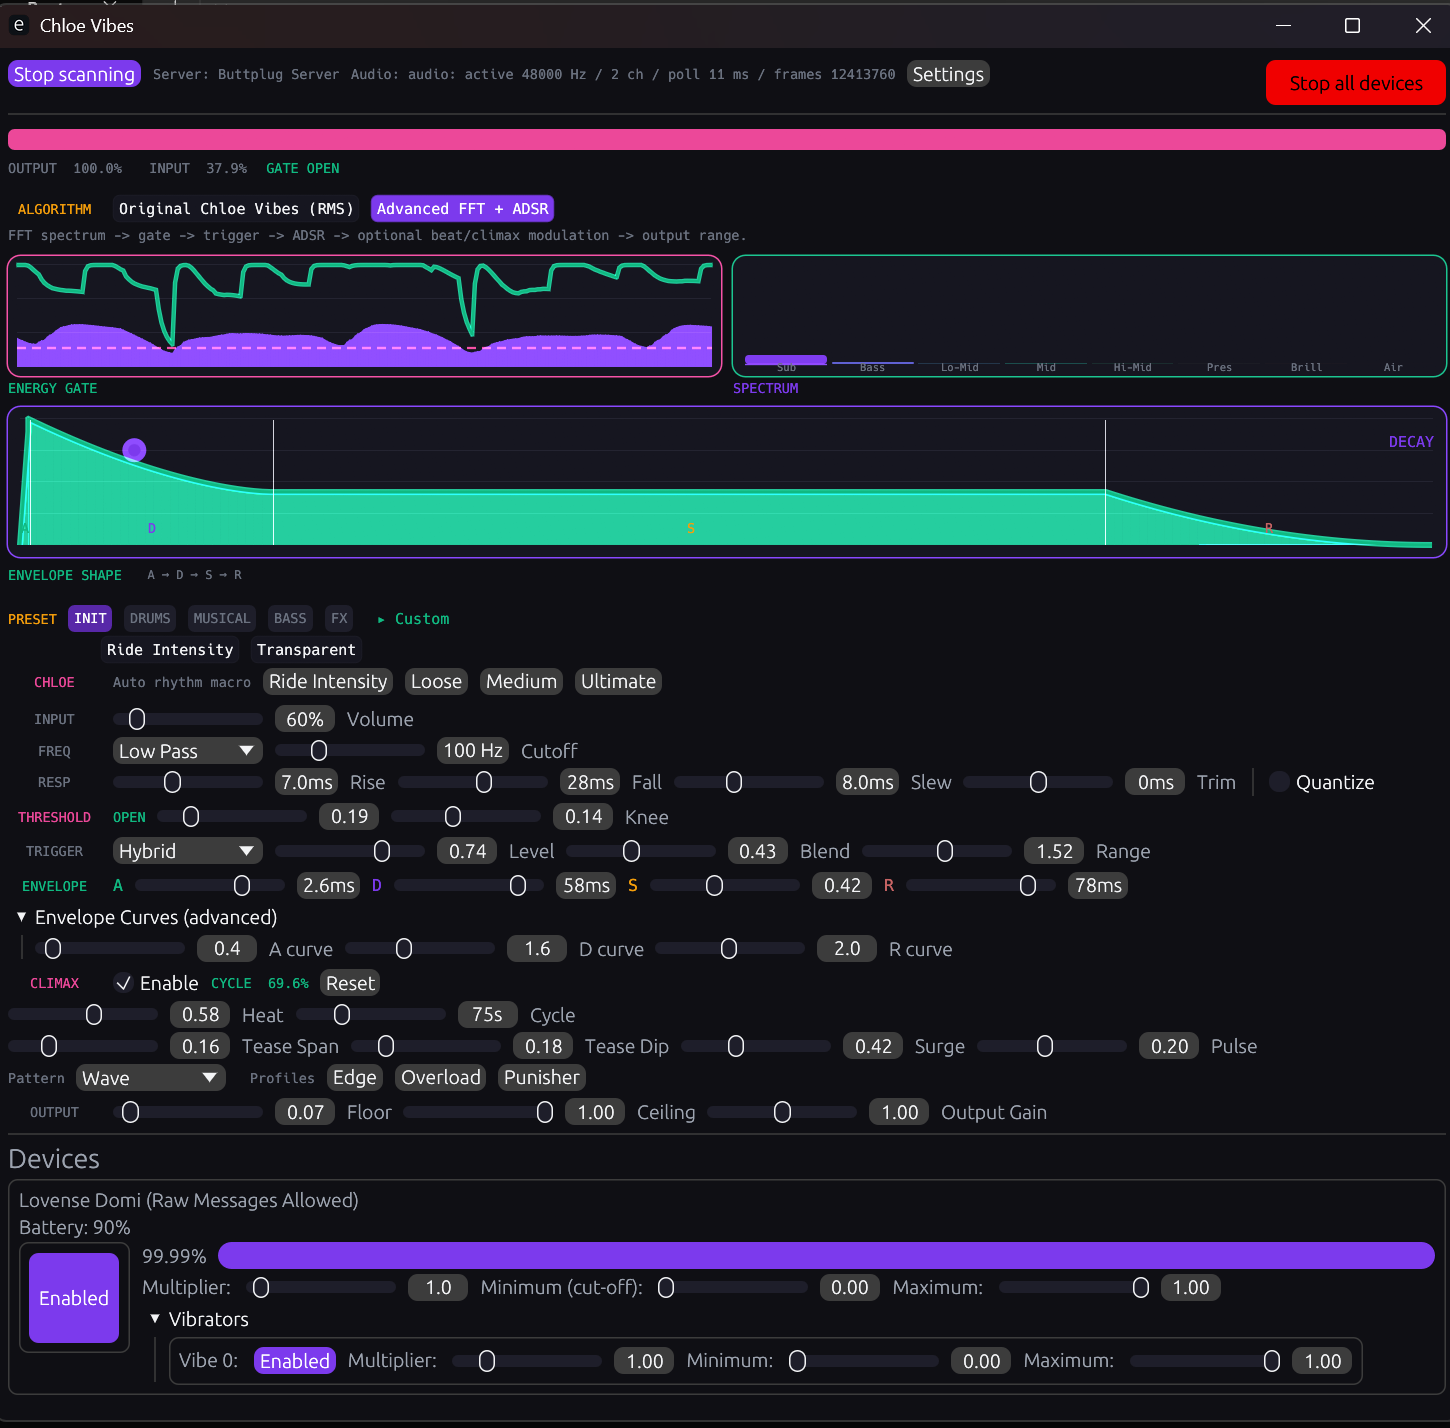
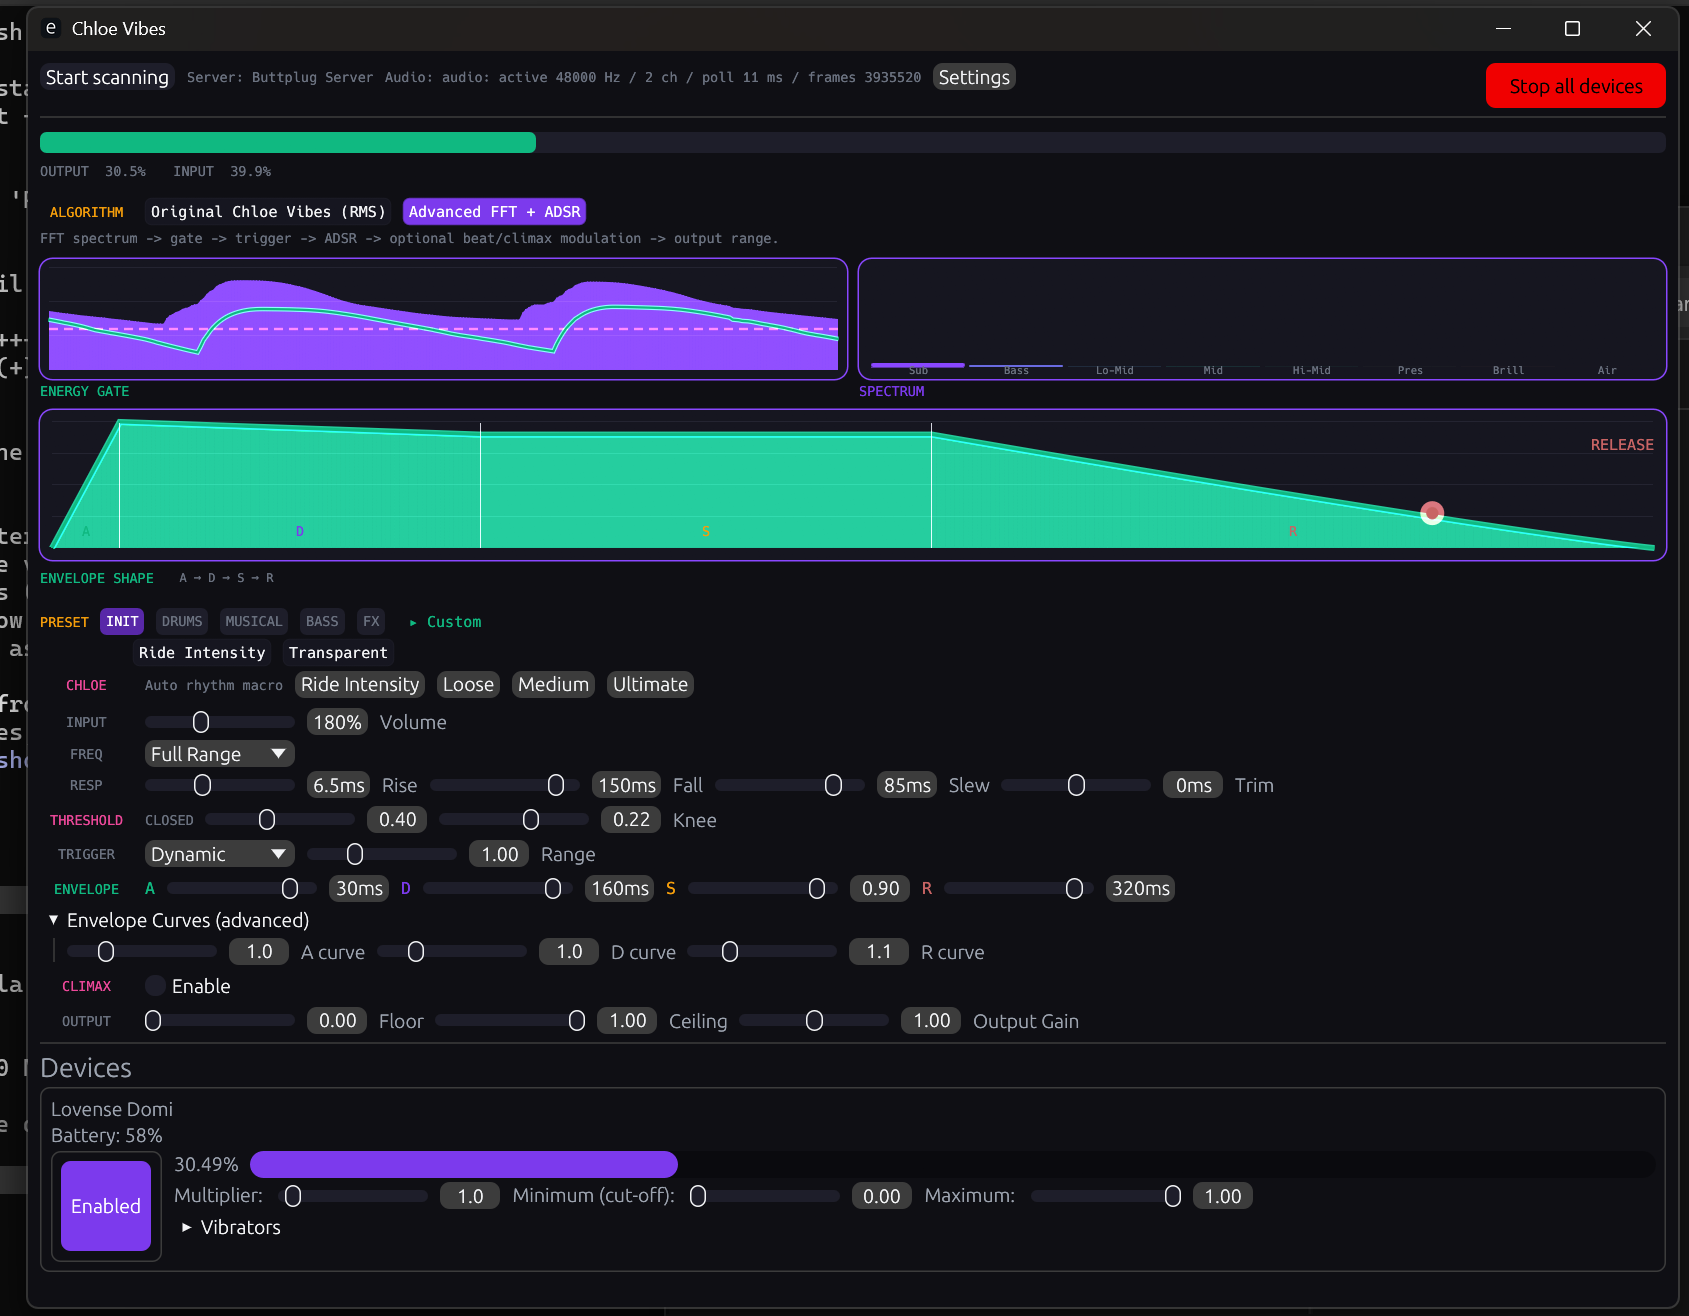
docs(assets): update Windows screenshot to current console capture
Replace the March placeholder with the current desktop console (Advanced
FFT + ADSR mode, Lovense Domi connected) and correct the Figure 1 caption
to match the actual UI.

diff --git a/README.md b/README.md
@@ -51,8 +51,8 @@ The Android engine is a direct port of the Rust engine (`src/audio.rs`). Output 
 > **WARNING.** This system commands a physical haptic device against a human body. No automatic safety cutoff or panic-stop is implemented in this version. The operator retains full responsibility for output level and for stopping the device. See Section 9.
 
 <p align="center">
-  <img src="assets/screenshot-windows.png" alt="Windows desktop console" width="760" /><br>
-  <em>Figure 1. Windows desktop console. Live 8-band spectrum, ADSR envelope preview, energy and output history, and device panel.</em>
+  <img src="assets/screenshot-windows.png" alt="Windows desktop console" width="820" /><br>
+  <em>Figure 1. Windows desktop console (Advanced FFT + ADSR mode). Top to bottom: transport and audio status, energy gate and 8-band spectrum, ADSR envelope shape, preset and Chloe rhythm controls, signal parameters, and the connected Lovense Domi device panel.</em>
 </p>
 
 <p align="center">